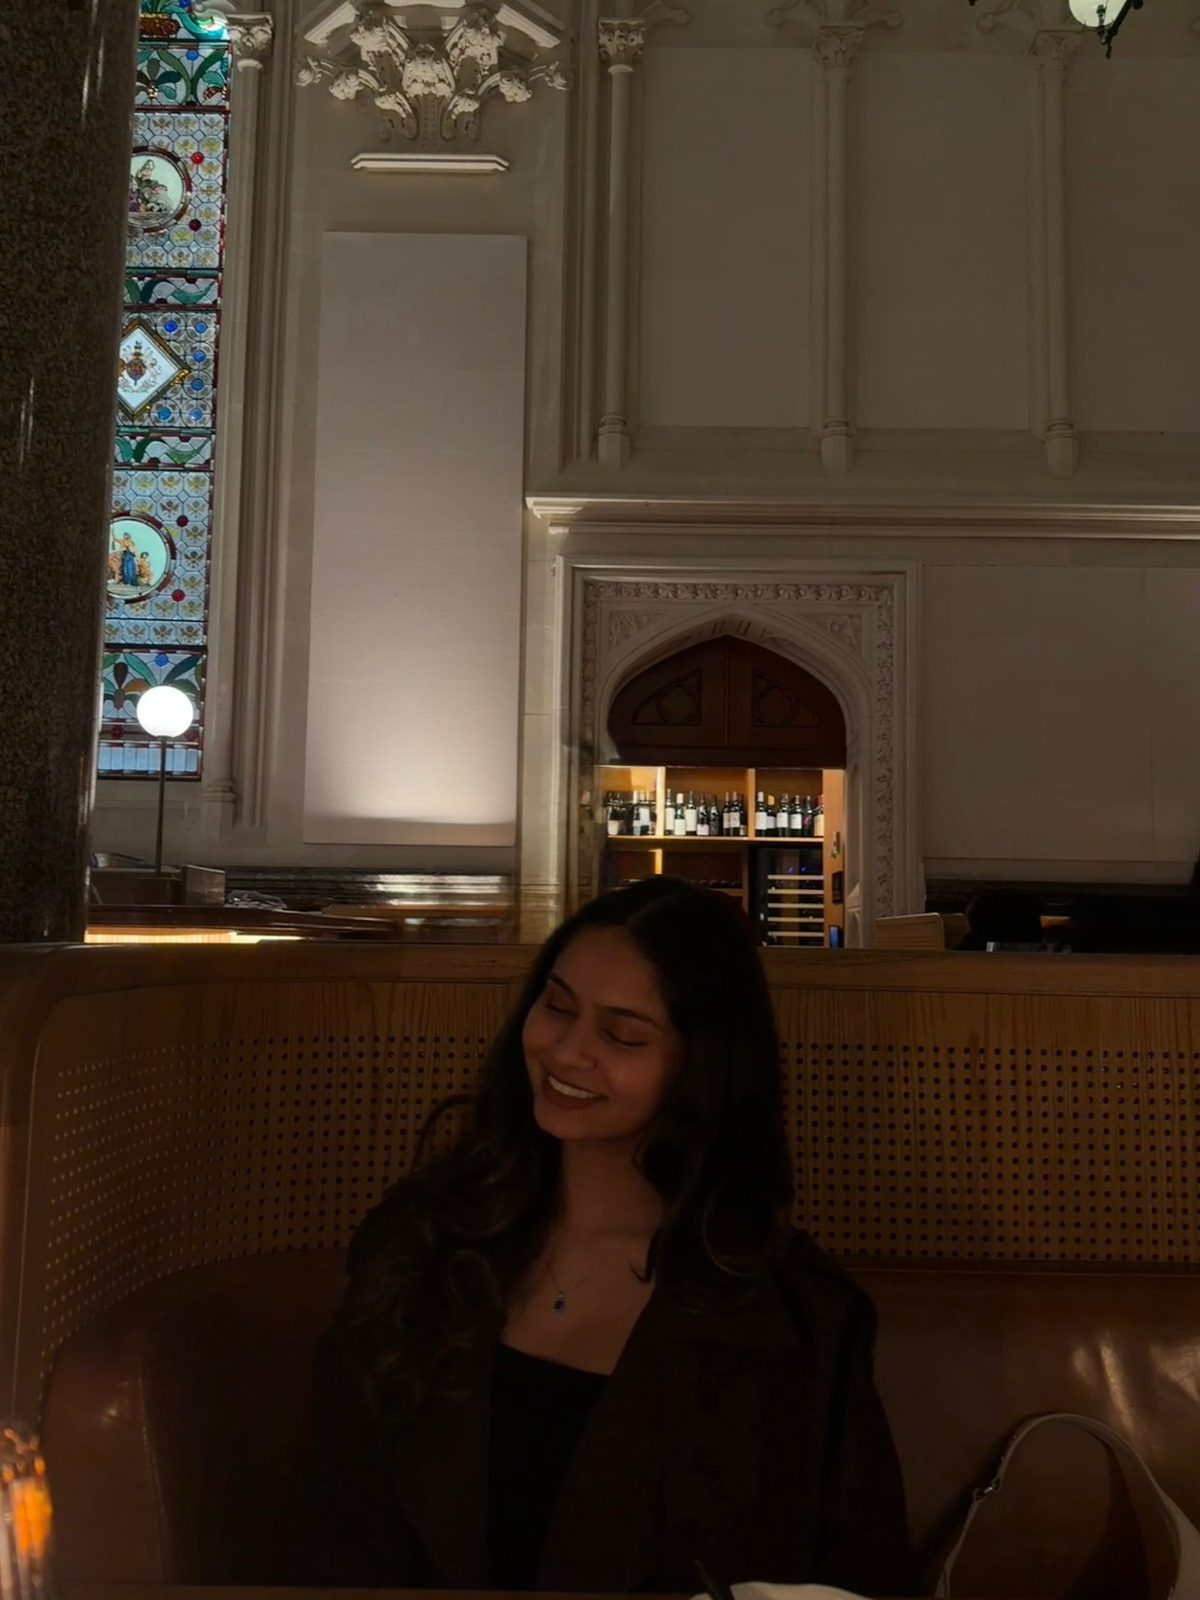
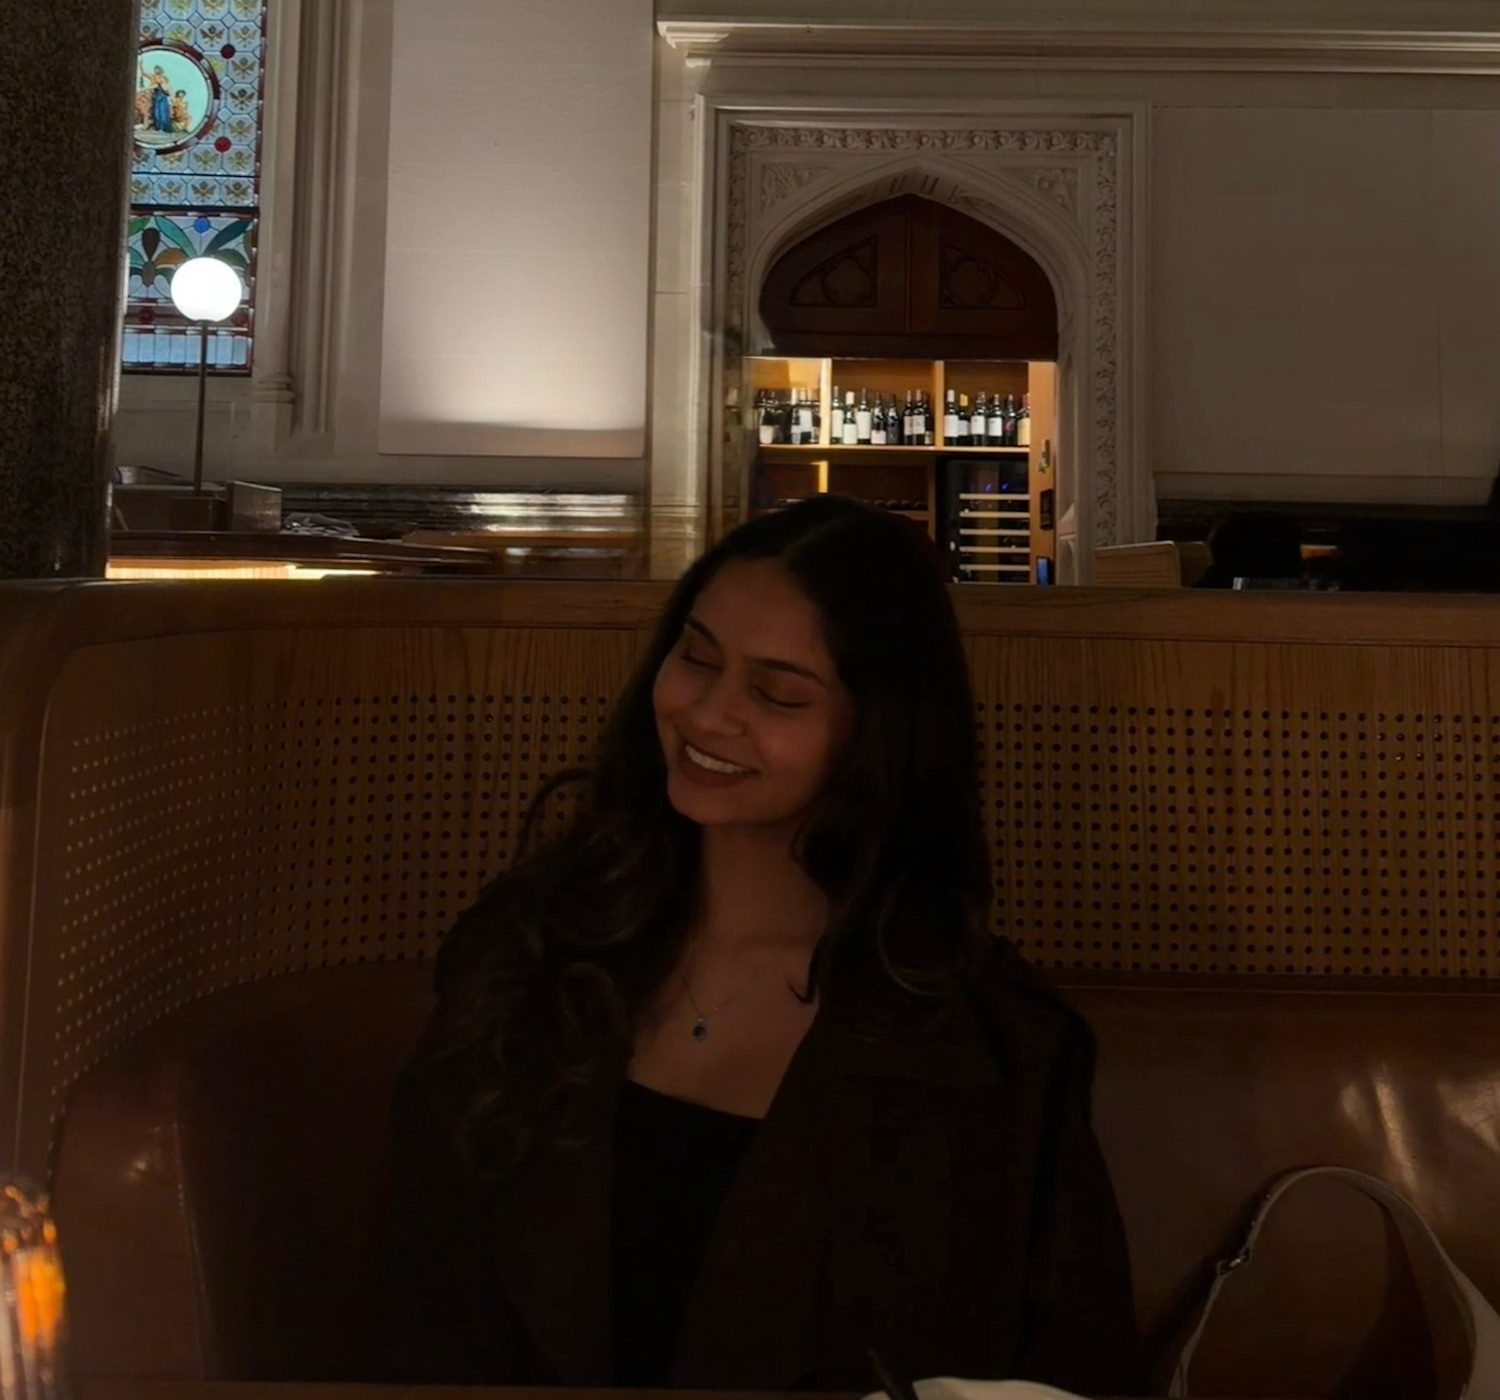
Reframe the cover portrait so she is the subject, not the architecture
The panel's aspect (~0.78-0.87 across breakpoints) sits very close to the
photograph's own 3:4, so object-position had only about forty pixels of
slack to pan with - nowhere near enough to lift past the ceiling and upper
wall that filled the top half of the frame.

Recropped the full-resolution original instead, dropping its top 30%, and
set the focal to 42% 50% so the stained glass stays in shot at the left
edge. She now reads about 40% larger and sits centred at every breakpoint,
with the arch and the bar behind her for warmth. Checked at 1920, 1440,
1440x700 and 390 wide; the original remains in history at d817e93.

Claude-Session: https://claude.ai/code/session_018aHUF9hKyW7VqXWYe5ofGC

diff --git a/assets/content.js b/assets/content.js
@@ -24,7 +24,10 @@ export const IMAGES = {
     alt: 'Sara laughing, seated in a candlelit room with stained glass behind her',
     label: 'HER PHOTOGRAPH',
     ratio: null,          // fills the cover panel
-    focal: '58% 38%',
+    /* The file is pre-cropped (top 30% of the original removed) so she reads
+       large in the panel rather than sitting under a wall of architecture.
+       The x focal keeps the stained glass at the left edge in shot. */
+    focal: '42% 50%',
     fit: 'cover',
   },
   coverSnapshot: {
